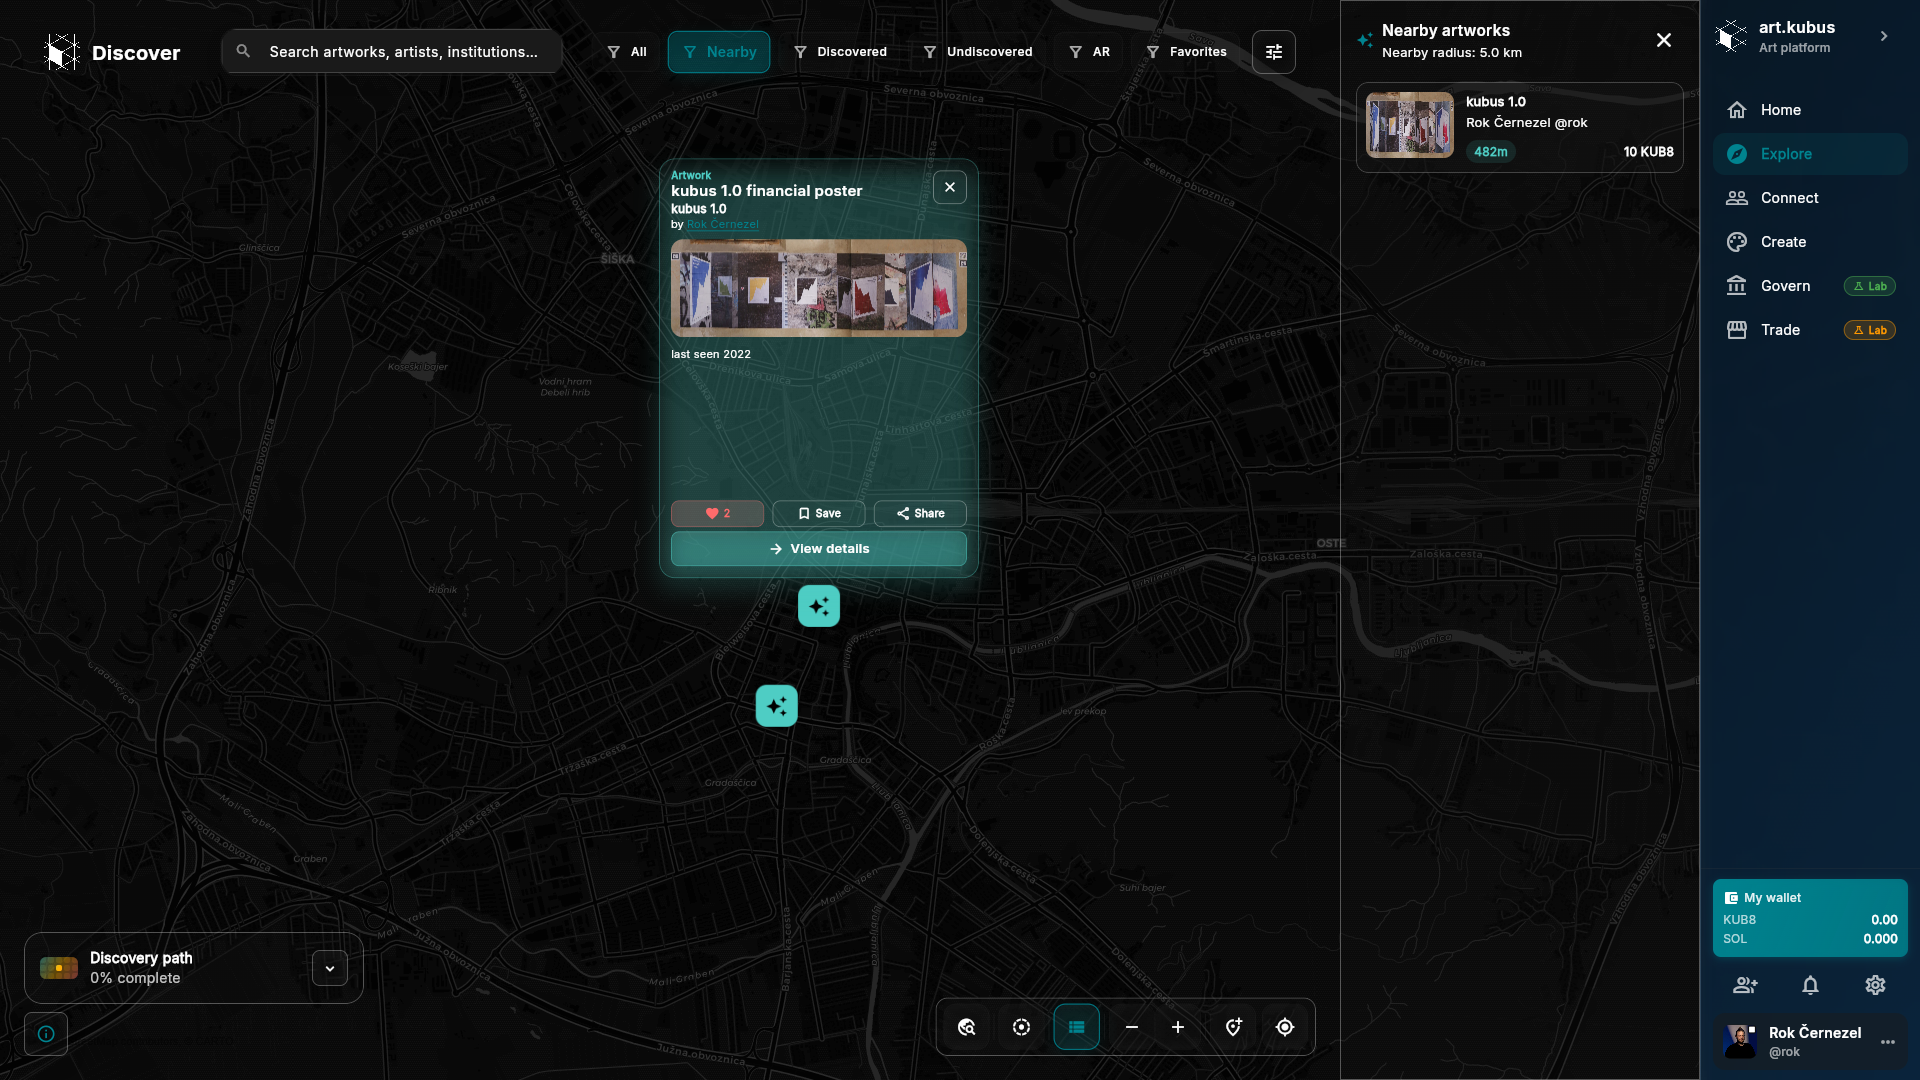
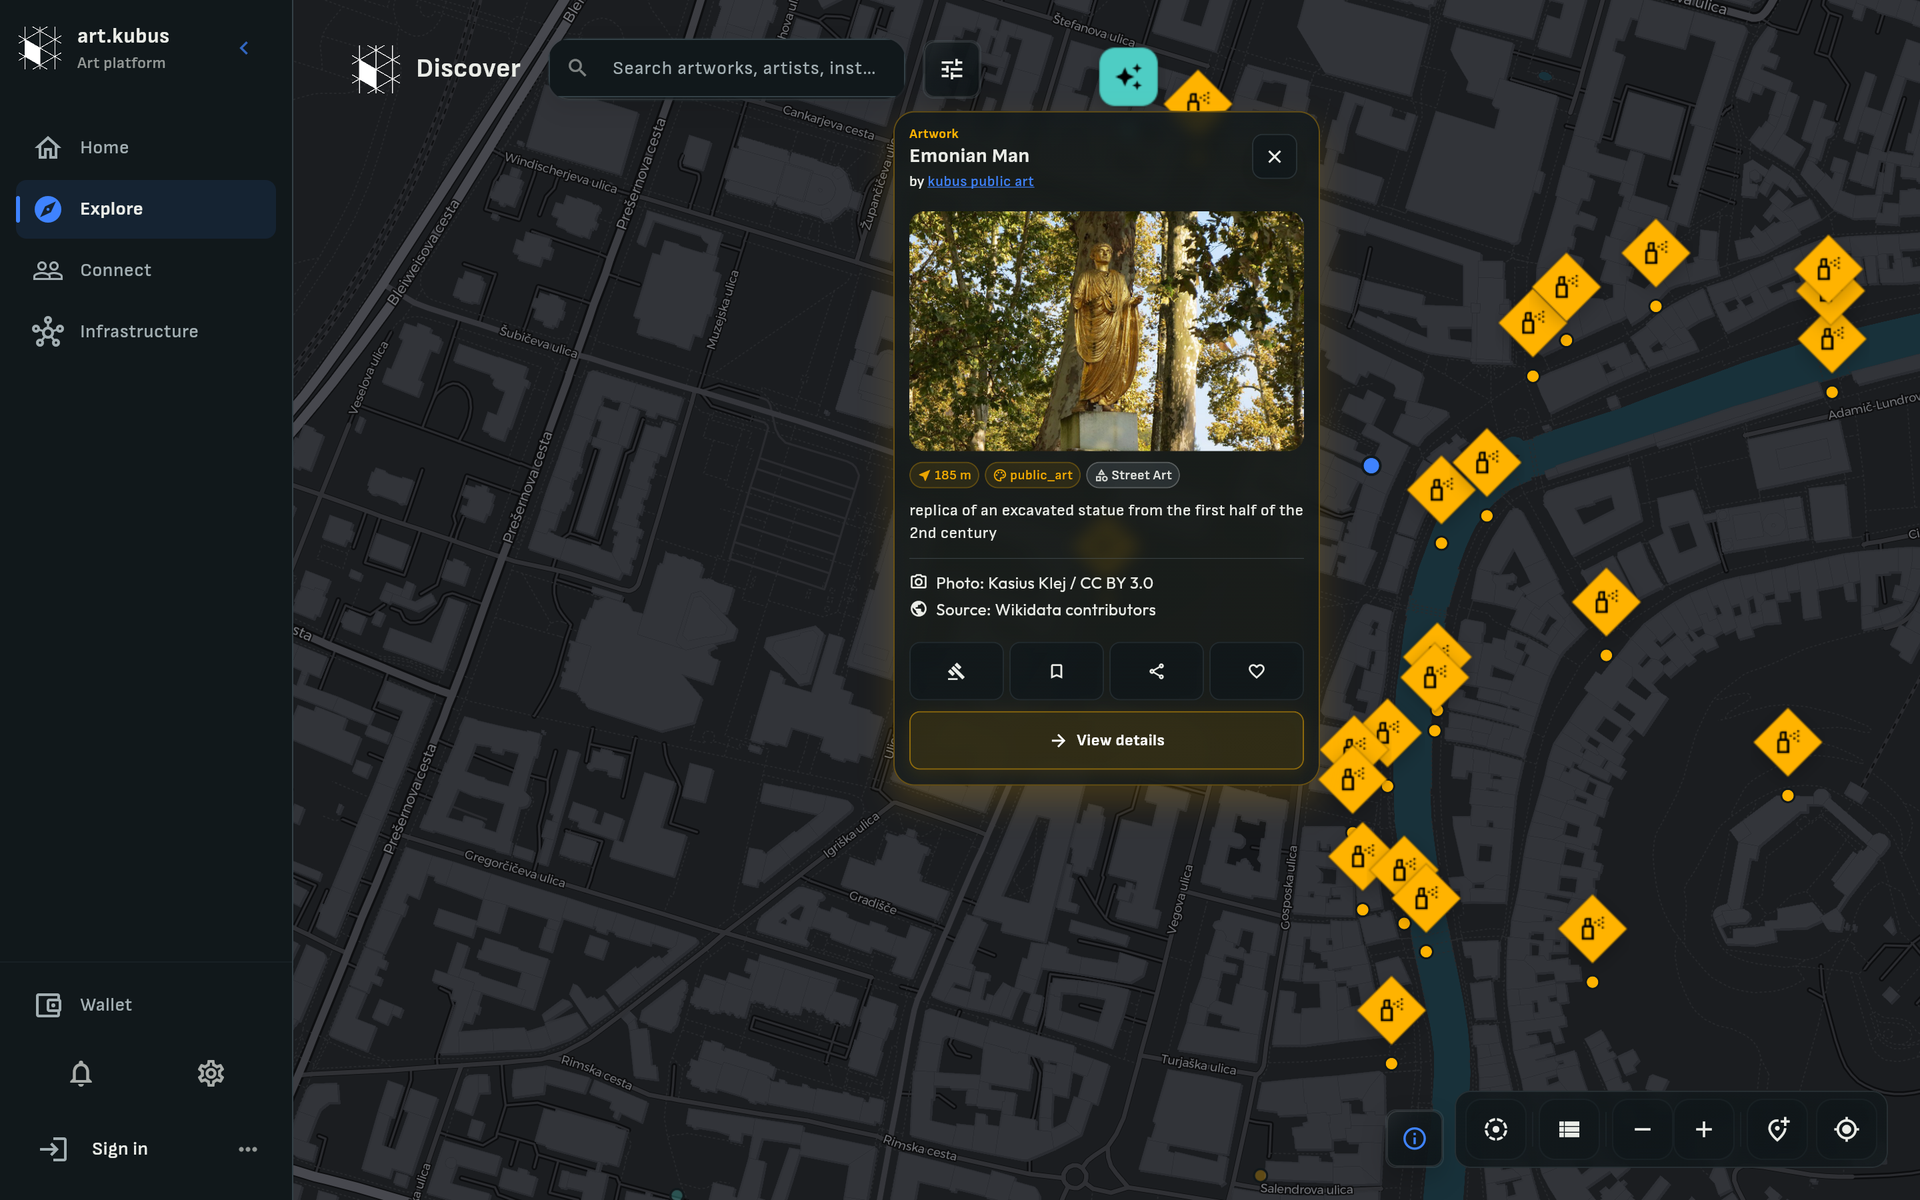
docs(screenshots): recapture map from the current web build, drop stale images
The README images dated from April, before the Product v5 navigation.
Map (desktop + mobile) is recaptured from a local release build with real
public API reads (writes and analytics stubbed); home reuses the Wave 4
evidence. Signed-in surfaces had only locked-state evidence, so their
stale images are removed rather than replaced.

diff --git a/docs/SCREENSHOTS.md b/docs/SCREENSHOTS.md
@@ -1,21 +1,27 @@
 # Screenshots
 
-This repo keeps UI screenshots under `docs/screenshots/` so GitHub docs can reference real UI rather than mockups.
+README and documentation images live in `docs/screenshots/`. They show the real application, never mockups or generated images.
 
-## Placeholders (add manually)
+## Current images
 
-Add screenshots with these filenames:
+| File | Shows | Source |
+| --- | --- | --- |
+| `map.png` | Desktop web map, dark theme, guest session, artwork card opened from the nearby list | `scripts/qa/readme_screenshots_capture.mjs`, scenario `map-card-desktop-dark`, downscaled to 1920x1200 |
+| `map_mobile.png` | Mobile web map (390x844 at 2x), dark theme, artwork card opened from the nearby sheet | same script, scenario `map-card-mobile-dark` |
+| `home.png` | Desktop home, light theme, guest session | `scripts/qa/product_v5_wave4_capture.mjs` (Product v5 Wave 4 evidence) |
+| `../branding/social-preview.png` | 1280x640 GitHub social preview composed from `map.png` | composed by hand from the capture above |
 
-| Screen | File |
-|--------|------|
-| Onboarding | `docs/screenshots/onboarding.png` |
-| Home | `docs/screenshots/home.png` |
-| Map (marker open) | `docs/screenshots/map.png` |
-| Community | `docs/screenshots/community.png` |
-| Artist Studio | `docs/screenshots/artist_studio.png` |
-| Profile | `docs/screenshots/profile.png` |
-| Institution Hub | `docs/screenshots/institution_hub.png` |
+The map captures use real public content from `api.kubus.site`. The capture script only lets read-only `GET` requests through; every write and analytics call is stubbed. The browser geolocation is set to central Ljubljana so the nearby list is deterministic. Only artworks whose photo licence is stated in the card (CC BY 3.0 and CC BY 2.0) were chosen for published images.
 
-When you add them, you can reference them from Markdown like:
+Signed-in surfaces such as Artist Studio, Institution Hub and profiles are covered by the Flutter visual QA matrices under `test/qa/`, which render the real widgets with local fixtures. Their output is under `docs/evidence/`.
 
-- `![Home](screenshots/home.png)`
+## Recapturing
+
+```bash
+flutter build web --release
+npm --prefix scripts/qa ci
+node scripts/qa/readme_screenshots_capture.mjs            # all scenarios
+QA_SCENARIOS=map-card node scripts/qa/readme_screenshots_capture.mjs
+```
+
+Output goes to `output/playwright/artifacts/readme/`, which is ignored by Git. Review every image before copying it into `docs/screenshots/`. Check that no private data, loading state or unlicensed photo is visible. `QA_DUMP_LABELS=1` prints the semantics labels and positions, which helps when a click target changes.
